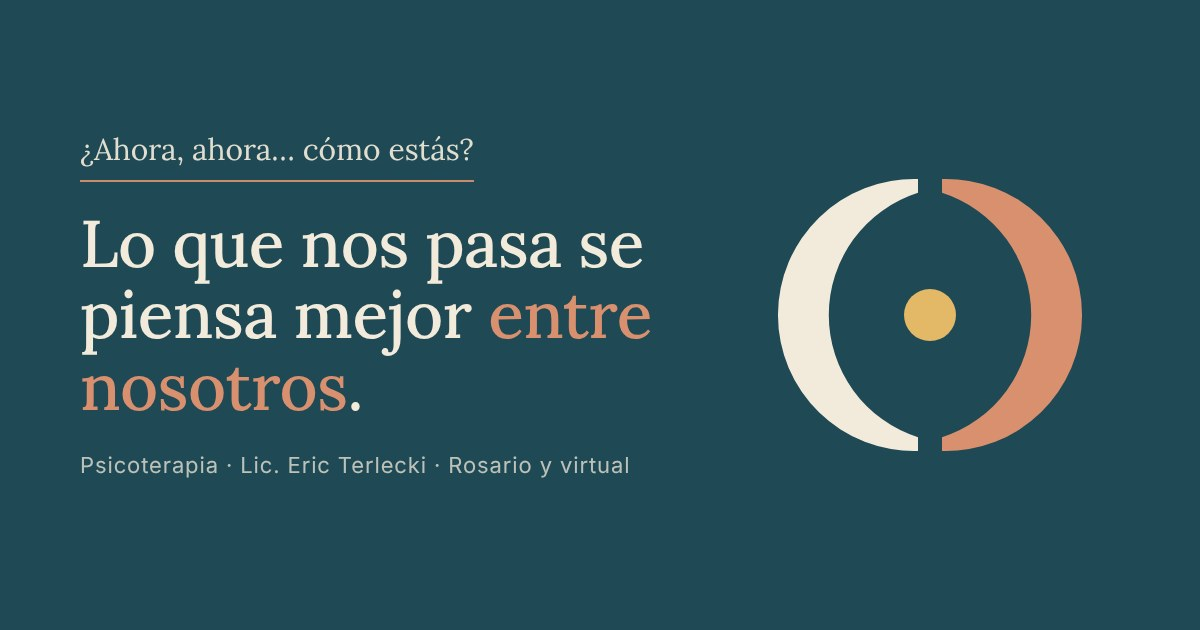
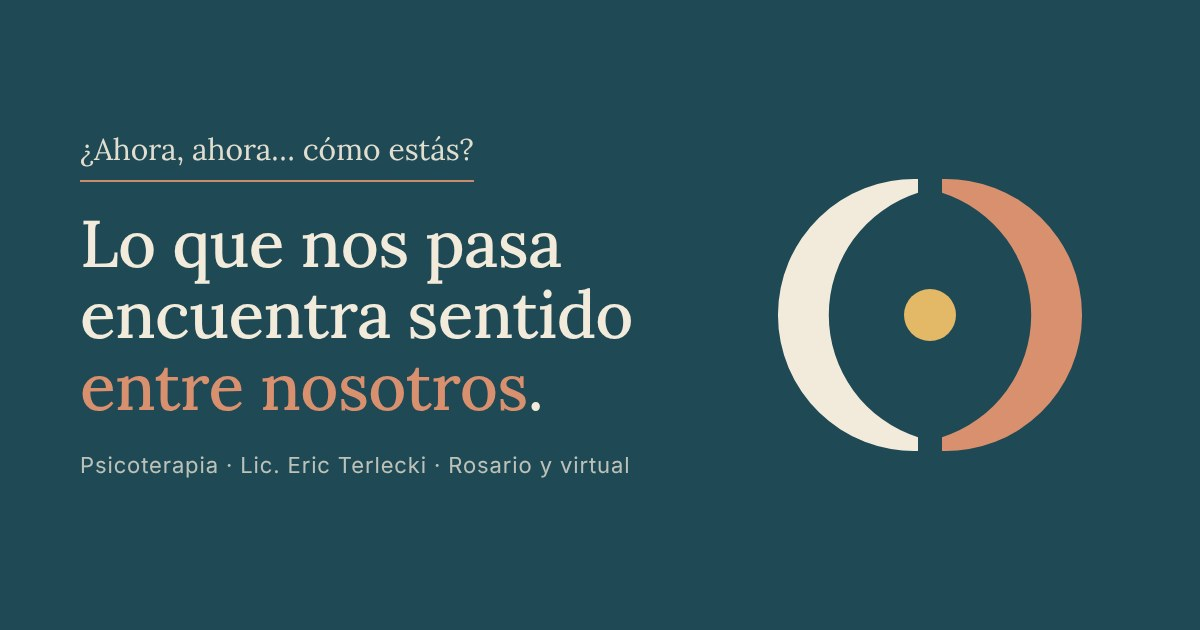
Portada: "Lo que nos pasa encuentra sentido entre nosotros"
Actualiza también la imagen y el texto de la vista previa al compartir.

Claude-Session: https://claude.ai/code/session_01126Kc2eg1k4bS4oUrq9Y2R

Changed region(s): [[0.0617, 0.4524, 0.555, 0.6635], [0.4625, 0.3619, 0.555, 0.4222]]

diff --git a/index.html b/index.html
@@ -15,7 +15,7 @@
 <meta property="og:image" content="https://entre-nosotros-web.vercel.app/og-imagen.jpg">
 <meta property="og:image:width" content="1200">
 <meta property="og:image:height" content="630">
-<meta property="og:image:alt" content="Entre Nosotros: lo que nos pasa se piensa mejor entre nosotros. Psicoterapia, Lic. Eric Terlecki.">
+<meta property="og:image:alt" content="Entre Nosotros: lo que nos pasa encuentra sentido entre nosotros. Psicoterapia, Lic. Eric Terlecki.">
 <meta name="twitter:card" content="summary_large_image">
 <link rel="canonical" href="https://entre-nosotros-web.vercel.app/">
 <script type="application/ld+json">{"@context": "https://schema.org", "@type": "ProfessionalService", "name": "Entre Nosotros · Psicoterapia", "url": "https://entre-nosotros-web.vercel.app/", "image": "https://entre-nosotros-web.vercel.app/og-imagen.jpg", "description": "Psicoterapia clínica individual, de pareja y de familia con enfoque humanista, integrativo y trascendente. Presencial en Rosario y virtual.", "telephone": "+54 9 341 660-1847", "email": "ericterlecki@gmail.com", "address": {"@type": "PostalAddress", "streetAddress": "Pasaje Rizzuto 3451", "addressLocality": "Rosario", "addressRegion": "Santa Fe", "addressCountry": "AR"}, "openingHoursSpecification": [{"@type": "OpeningHoursSpecification", "dayOfWeek": ["Monday", "Tuesday", "Wednesday", "Thursday", "Friday"], "opens": "08:00", "closes": "21:00"}, {"@type": "OpeningHoursSpecification", "dayOfWeek": "Saturday", "opens": "08:00", "closes": "13:00"}], "areaServed": "Rosario, Santa Fe, Argentina", "sameAs": ["https://www.instagram.com/entrenosotros.psicoterapia/"], "founder": {"@type": "Person", "name": "Eric Terlecki", "jobTitle": "Licenciado en Psicología"}}</script>
@@ -524,7 +524,7 @@ footer .wrap{padding-bottom:calc(22px + 64px)}
     <div>
       <p class="hero-tag">¿Ahora, ahora… cómo estás?</p>
       <p class="eyebrow" style="color:var(--terra);margin-top:22px">Psicoterapia · Presencial y virtual</p>
-      <h1 style="margin-top:14px">Lo que nos pasa se piensa mejor <em>entre nosotros</em>.</h1>
+      <h1 style="margin-top:14px">Lo que nos pasa encuentra sentido <em>entre nosotros</em>.</h1>
       <p class="common">Un espacio de encuentro personal y de <b>construcción en común</b>. Para compartir recursos y herramientas que acompañen el proceso psicoterapéutico.</p>
       <div class="btns">
         <a class="btn btn-terra" href="https://wa.me/5493416601847" target="_blank" rel="noopener">Escribir por WhatsApp</a>
